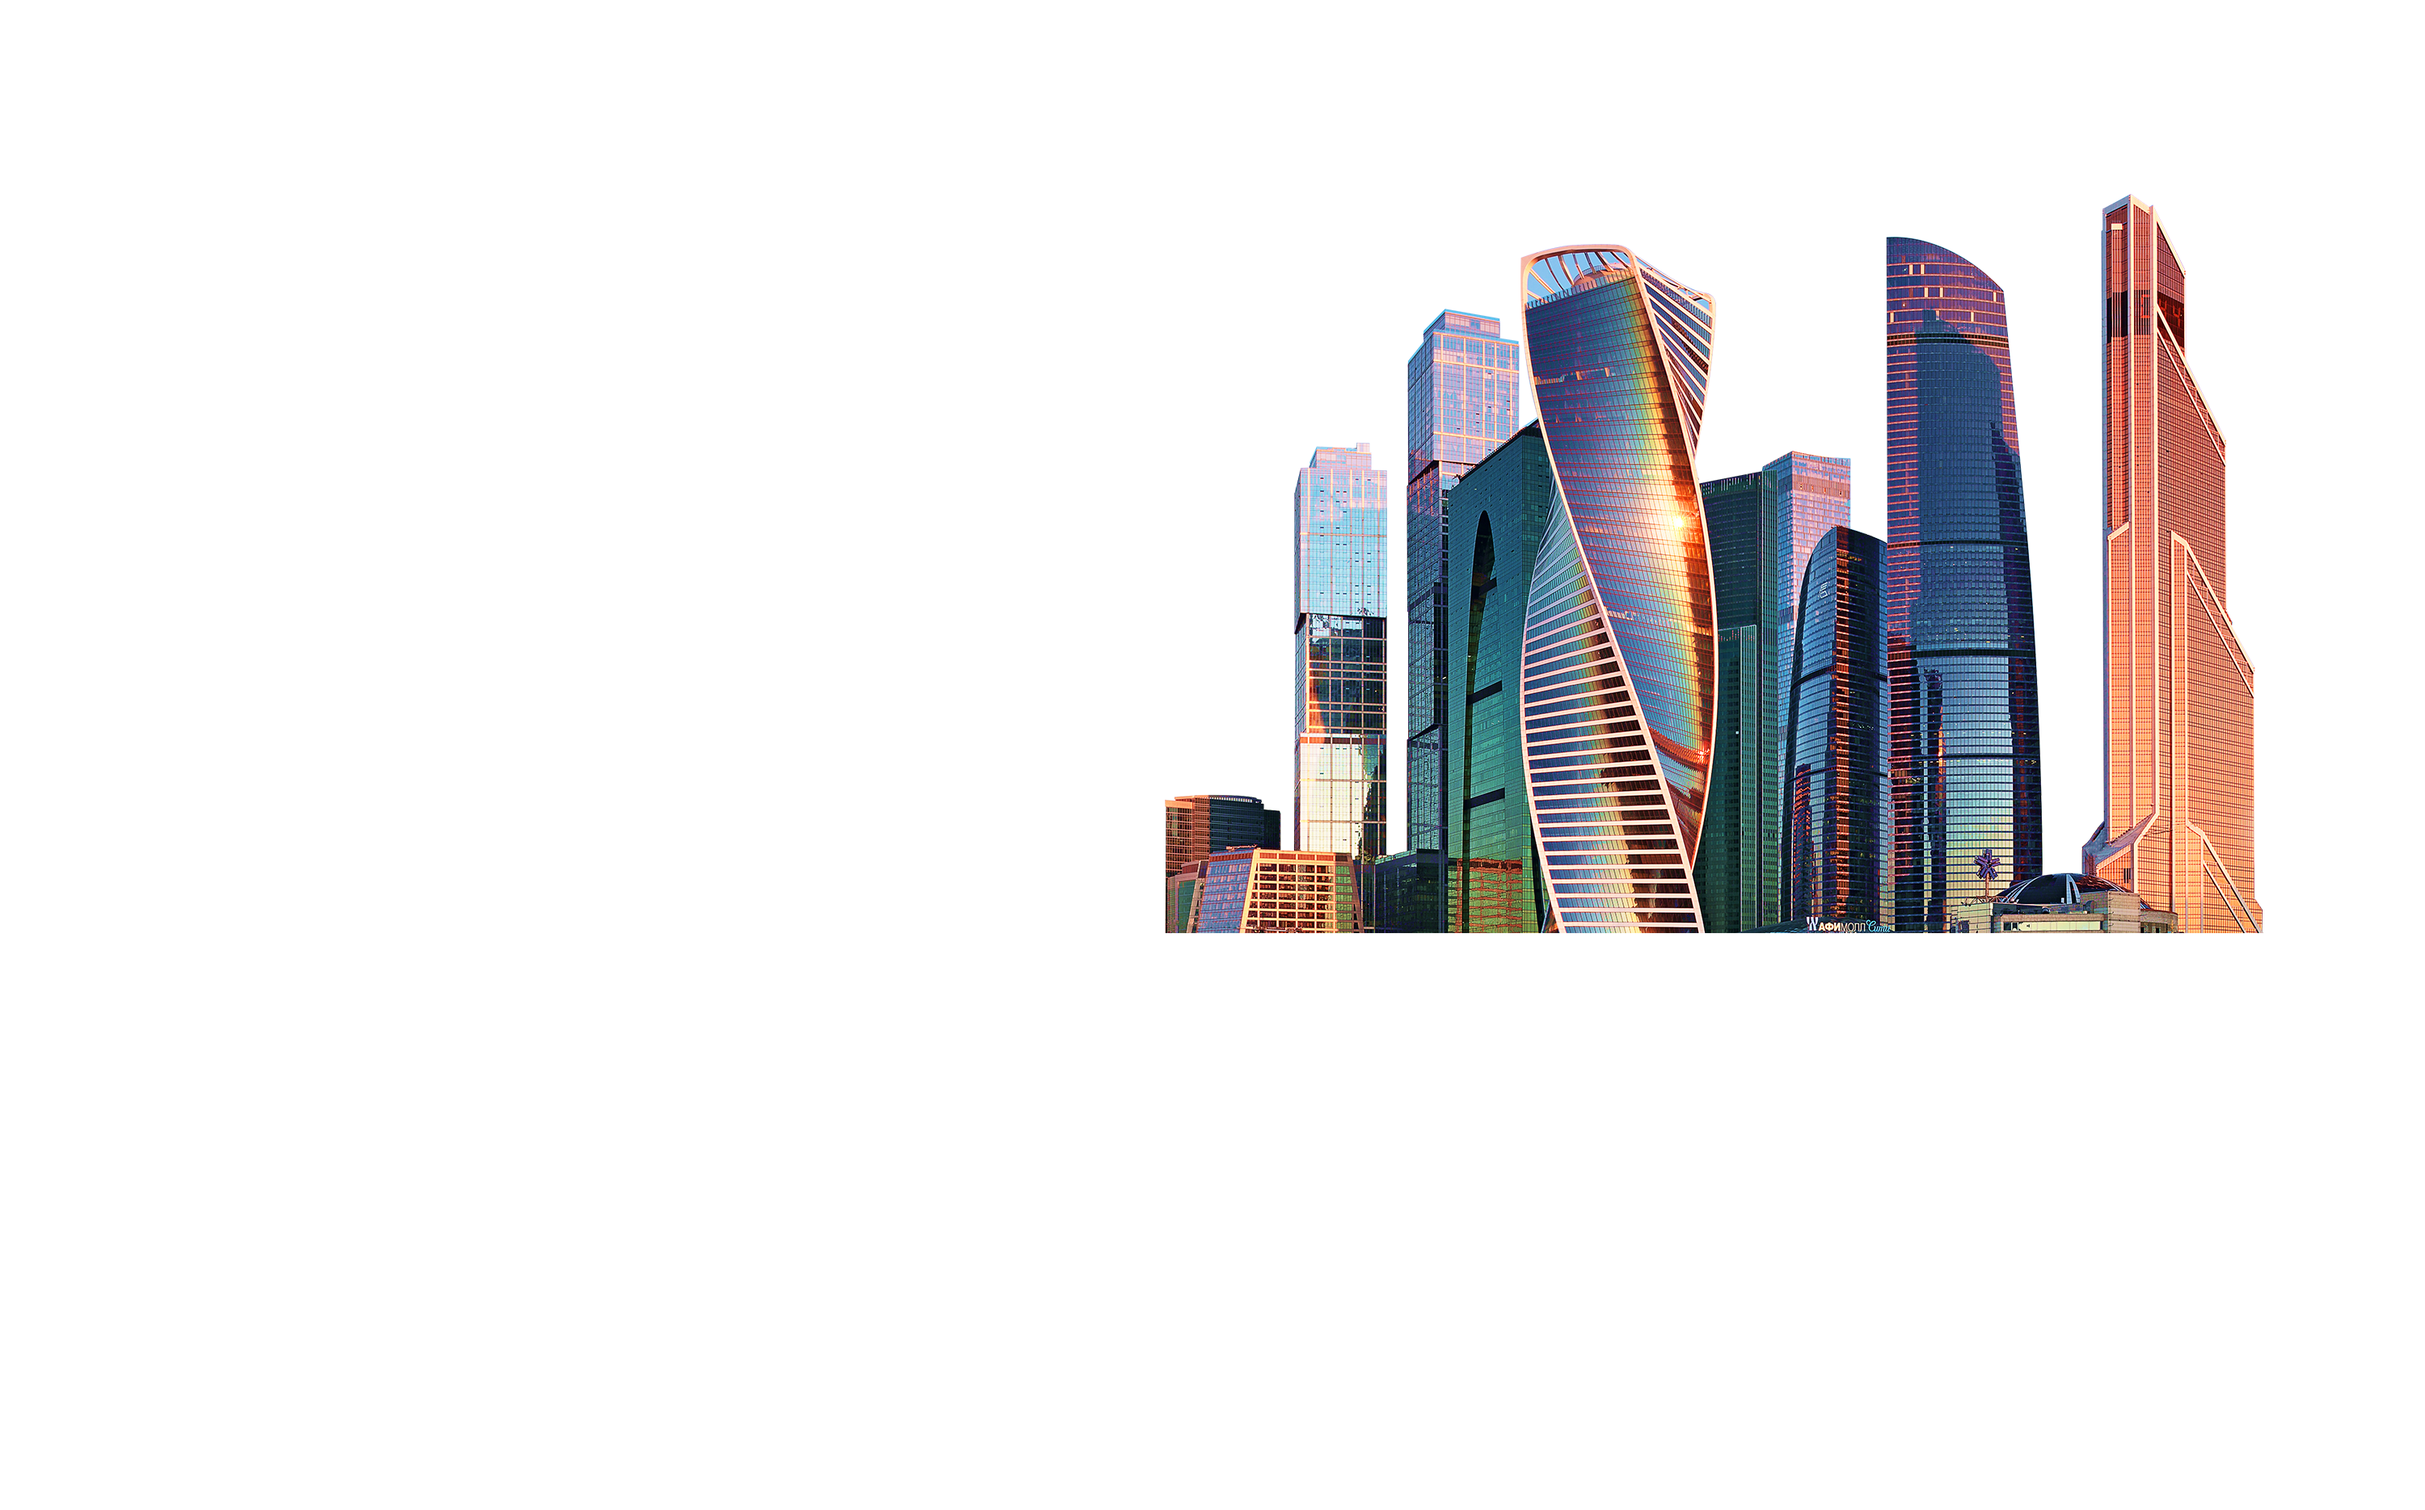
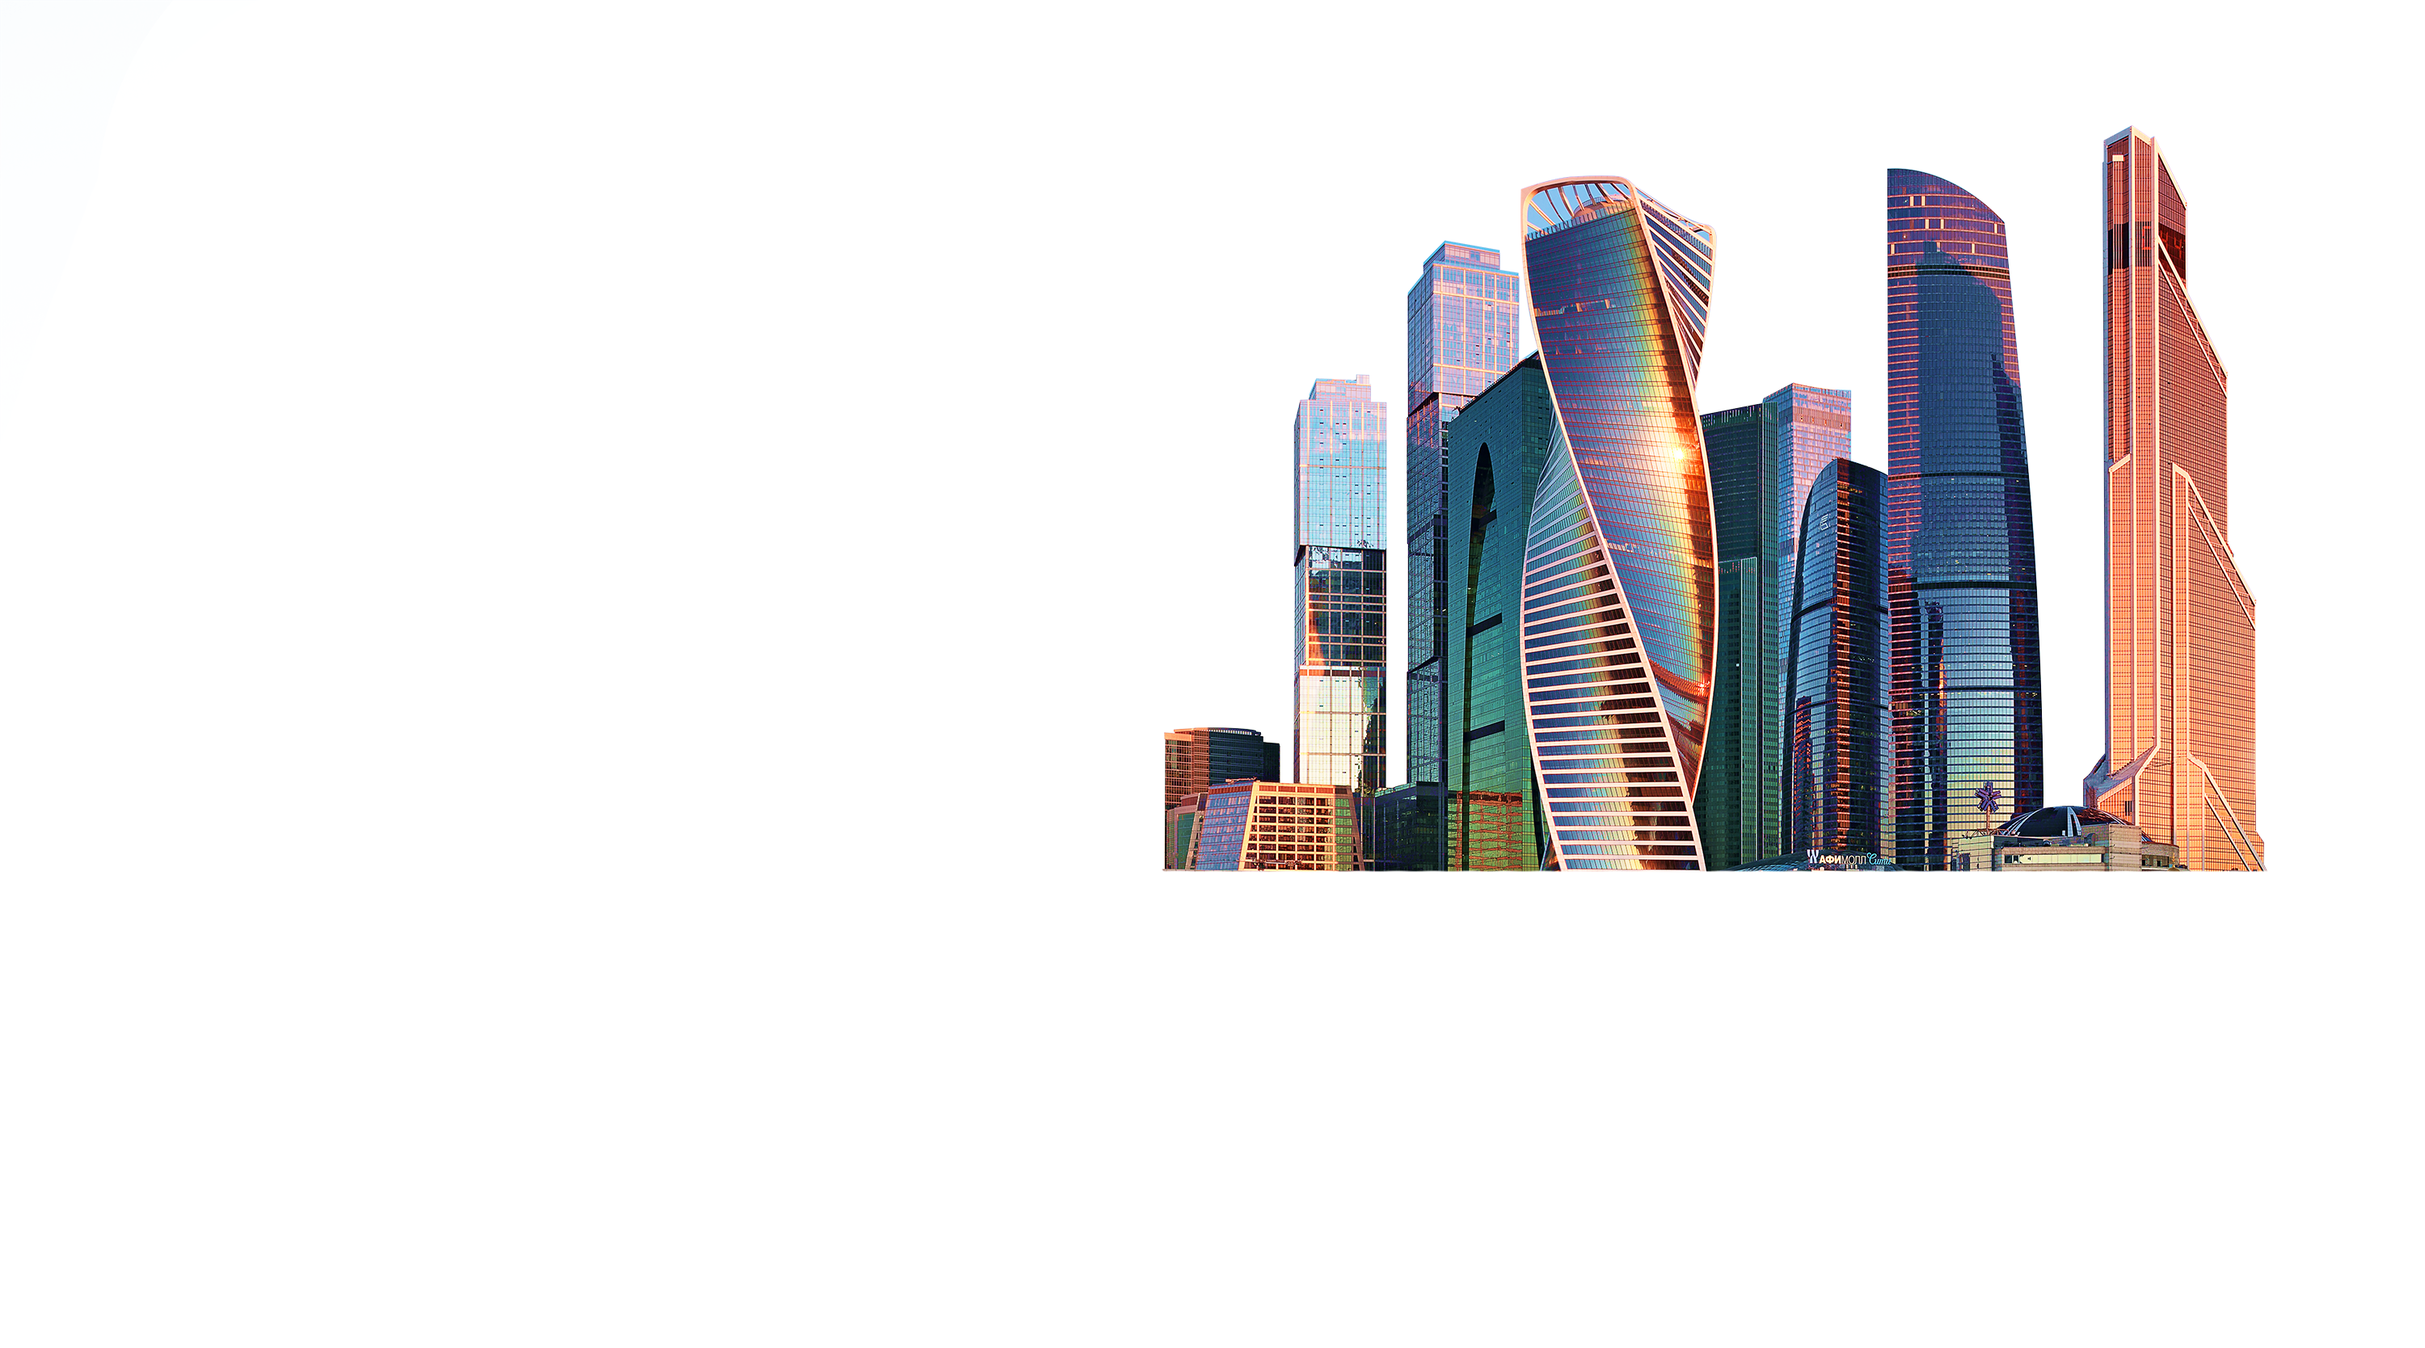
анимация расстановки

Changed region(s): [[0.465, 0.0935, 0.93, 0.6547]]

diff --git a/css/common.css b/css/common.css
@@ -239,10 +239,8 @@ a:active, a:focus, button:active, button:focus {
     transform: translate(0, 0) scale(1); } }
 @keyframes hero3Move {
   0% {
-    opacity: 0;
     transform: translate(0, 30%); }
   100% {
-    opacity: 1;
     transform: translate(0, 0); } }
 @keyframes hero4Move {
   0% {
@@ -324,7 +322,9 @@ body {
     animation: 0 !important;
     opacity: 1;
     transform: none;
-    transition: none; }
+    transition: transform .1s linear; }
+    body.regular .b-section-top__hero.b-section-top__hero_3 {
+      transition: transform .15s linear !important; }
   body.transitions .b-section-top__hero.b-section-top__hero_1 {
     opacity: 0;
     transform: translate(-150%, 0) scale(0.3); }
@@ -352,24 +352,27 @@ body {
     animation: dLogo 1s ease 1 forwards;
     animation-delay: 3s; }
   body.show .b-section-top__bg {
-    background-position: center 50%; }
+    background-position: center 62%; }
   body.show .b-section-top__buildings div {
-    background-position: center 21%; }
+    background-position: center 22%; }
+  body.show .b-section-top__sky {
+    background-position: center 70%; }
   body.show .b-section-top__hero.b-section-top__hero_1 {
-    animation: hero1Move 2s ease 1 forwards;
-    animation-delay: .6s; }
+    animation: hero1Move 2s ease 1 forwards; }
   body.show .b-section-top__hero.b-section-top__hero_2 {
     animation: hero2Move 1s ease 1 forwards;
-    animation-delay: .9s; }
+    animation-delay: .45s; }
   body.show .b-section-top__hero.b-section-top__hero_3 {
-    animation: hero3Move 2.8s ease 1 forwards;
-    animation-delay: 1.2s; }
+    animation: hero3Move 3s ease 1 forwards;
+    animation-delay: 1s;
+    opacity: 1;
+    transition: opacity .75s 1s; }
   body.show .b-section-top__hero.b-section-top__hero_4 {
     animation: hero4Move .8s ease 1 forwards;
     animation-delay: 1.2s; }
   body.show .b-section-top__hero.b-section-top__hero_5 {
     animation: hero5Move .5s ease 1 forwards;
-    animation-delay: .9s; }
+    animation-delay: .7s; }
   body.show .b-section-top__hero-cloud {
     opacity: 1; }
 
@@ -388,7 +391,6 @@ a {
   right: 0;
   bottom: 0;
   z-index: 100;
-  background: #fff;
   transition: opacity .4s, visibility .4s 0s; }
   .b-loader.active .b-loader__line {
     animation: border .6s ease 1 forwards; }
@@ -453,7 +455,7 @@ a {
   background: url("../i/product-logo.svg") no-repeat center;
   background-size: auto 100%;
   opacity: 0;
-  transition: opacity 1s 1.2s; }
+  transition: opacity 1s .5s; }
 
 .b-burger {
   position: absolute;
@@ -464,7 +466,7 @@ a {
   box-sizing: border-box;
   overflow: hidden;
   opacity: 0;
-  transition: opacity 1s 1.4s; }
+  transition: opacity 1s .5s; }
   .b-burger:hover:before {
     transform: translate(-50%, 0) scale(1.1); }
   .b-burger:before {
@@ -491,7 +493,7 @@ a {
   right: 0;
   width: 100%;
   bottom: 0;
-  transition: width 1s .4s;
+  transition: width 1.2s;
   backface-visibility: hidden; }
 
 .b-section-top {
@@ -512,13 +514,13 @@ a {
   overflow: hidden; }
   .b-section-top__buildings div {
     position: absolute !important;
-    top: -5% !important;
+    top: 0 !important;
     left: -5% !important;
     right: -5%;
     bottom: -5%;
-    background: url("../i/city-buildings.png") no-repeat center 11%;
+    background: url("../i/city-buildings.png") no-repeat center 0%;
     background-size: 100% auto;
-    transition: background-position 4s;
+    transition: background-position 4s, transform .3s linear;
     backface-visibility: hidden; }
 
 .b-section-top__wrapper {
@@ -537,13 +539,24 @@ a {
 
 .b-section-top__bg {
   position: absolute !important;
-  top: -5% !important;
+  top: 0 !important;
   left: -5% !important;
   right: -5%;
   bottom: -5%;
-  background: url("../i/city.jpg") no-repeat center 40%;
+  background: url("../i/city.png") no-repeat center 40%;
   background-size: 100% auto;
-  transition: background-position 4s;
+  transition: background-position 4s, transform .3s linear;
+  backface-visibility: hidden; }
+
+.b-section-top__sky {
+  position: absolute !important;
+  top: 0 !important;
+  left: -5% !important;
+  right: -5%;
+  bottom: -5%;
+  background: url("../i/city-sky.png") no-repeat center 0;
+  background-size: 100% auto;
+  transition: background-position 2s 2s;
   backface-visibility: hidden; }
 
 .b-section-top__hero-cloud {
@@ -596,12 +609,13 @@ a {
   .b-section-top__hero.b-section-top__hero_3 {
     left: 40% !important;
     top: auto !important;
-    bottom: 25.5%;
+    bottom: 27%;
     width: 3.72vw;
     height: 6.38vw;
     background: url("../i/top-hero-3.svg") no-repeat center 40%;
     background-size: 100% auto;
-    pointer-events: auto; }
+    pointer-events: auto;
+    opacity: 0; }
     .b-section-top__hero.b-section-top__hero_3 .b-section-top__hero-cloud {
       right: 80%;
       bottom: 70%;

diff --git a/scss/layout.scss b/scss/layout.scss
@@ -45,11 +45,9 @@
 
 @keyframes hero3Move {
   0% {
-    opacity: 0;
     transform: translate(0,30%);
   }
   100% {
-    opacity: 1;
     transform: translate(0,0);
   }
 }
@@ -169,7 +167,11 @@ body{
       animation: 0 !important;
       opacity: 1;
       transform: none;
-      transition: none;
+      transition: transform .1s linear;
+
+      &.b-section-top__hero_3{
+        transition: transform .15s linear !important;
+      }
     }
   }
 
@@ -220,24 +222,28 @@ body{
     }
 
     .b-section-top__bg{
-      background-position: center 50%;
+      background-position: center 62%;
     }
     .b-section-top__buildings div{
-      background-position: center 21%;
+      background-position: center 22%;
+    }
+    .b-section-top__sky{
+      background-position: center 70%;
     }
 
     .b-section-top__hero{
       &.b-section-top__hero_1{
         animation: hero1Move 2s ease 1 forwards;
-        animation-delay: .6s;
       }
       &.b-section-top__hero_2{
         animation: hero2Move 1s ease 1 forwards;
-        animation-delay: .9s;
+        animation-delay: .45s;
       }
       &.b-section-top__hero_3{
-        animation: hero3Move 2.8s ease 1 forwards;
-        animation-delay: 1.2s;
+        animation: hero3Move 3s ease 1 forwards;
+        animation-delay: 1s;
+        opacity: 1;
+        transition: opacity .75s 1s;
       }
       &.b-section-top__hero_4{
         animation: hero4Move .8s ease 1 forwards;
@@ -245,7 +251,7 @@ body{
       }
       &.b-section-top__hero_5{
         animation: hero5Move .5s ease 1 forwards;
-        animation-delay: .9s;
+        animation-delay: .7s;
       }
     }
 
@@ -275,7 +281,7 @@ a {
   right: 0;
   bottom: 0;
   z-index: 100;
-  background: #fff;
+  //background: #fff;
   transition: opacity .4s, visibility .4s 0s;
 
   &.active{
@@ -354,7 +360,7 @@ a {
   background: url("../i/product-logo.svg") no-repeat center;
   background-size: auto 100%;
   opacity: 0;
-  transition: opacity 1s 1.2s;
+  transition: opacity 1s .5s;
 }
 
 .b-burger{
@@ -366,7 +372,7 @@ a {
   box-sizing: border-box;
   overflow: hidden;
   opacity: 0;
-  transition: opacity 1s 1.4s;
+  transition: opacity 1s .5s;
 
   &:hover{
     &:before{
@@ -402,7 +408,7 @@ a {
   right: 0;
   width: 100%;
   bottom: 0;
-  transition: width 1s .4s;
+  transition: width 1.2s;
   backface-visibility: hidden;
 }
 
@@ -428,13 +434,13 @@ a {
 
   div{
     position: absolute !important;
-    top: -5% !important;
+    top: 0 !important;
     left: -5% !important;
     right: -5%;
     bottom: -5%;
-    background: url("../i/city-buildings.png") no-repeat center 11%;
+    background: url("../i/city-buildings.png") no-repeat center 0%;
     background-size: 100% auto;
-    transition: background-position 4s;
+    transition: background-position 4s, transform .3s linear;
     backface-visibility: hidden;
   }
 }
@@ -457,13 +463,25 @@ a {
 
 .b-section-top__bg{
   position: absolute !important;
-  top: -5% !important;
+  top: 0 !important;
   left: -5% !important;
   right: -5%;
   bottom: -5%;
-  background: url("../i/city.jpg") no-repeat center 40%;
+  background: url("../i/city.png") no-repeat center 40%;
   background-size: 100% auto;
-  transition: background-position 4s;
+  transition: background-position 4s, transform .3s linear;
+  backface-visibility: hidden;
+}
+
+.b-section-top__sky{
+  position: absolute !important;
+  top: 0 !important;
+  left: -5% !important;
+  right: -5%;
+  bottom: -5%;
+  background: url("../i/city-sky.png") no-repeat center 0;
+  background-size: 100% auto;
+  transition: background-position 2s 2s;
   backface-visibility: hidden;
 }
 
@@ -529,12 +547,13 @@ a {
   &.b-section-top__hero_3{
     left: 40% !important;
     top: auto !important;
-    bottom: 25.5%;
+    bottom: 27%;
     width: 3.72vw;
     height: 6.38vw;
     background: url("../i/top-hero-3.svg") no-repeat center 40%;
     background-size: 100% auto;
     pointer-events: auto;
+    opacity: 0;
 
     .b-section-top__hero-cloud{
       right: 80%;

diff --git a/index.html b/index.html
@@ -39,10 +39,11 @@
             <div class="b-section-top__white"></div>
             <div class="b-section-top__box">
                 <div class="js-parallax b-section-top__buildings">
-                    <div data-depth="0.15"></div>
+                    <div data-depth="0.15" data-friction-x=".01" data-friction-y=".01" ></div>
                 </div>
                 <div class="js-parallax b-section-top__wrapper">
-                    <div data-depth="0.15" class="b-section-top__bg"></div>
+                    <div class="b-section-top__sky"></div>
+                    <div data-depth="0.15" data-friction-x=".01" data-friction-y=".01" class="b-section-top__bg"></div>
                 </div>
             </div>
             <div class="js-parallax b-section-top__hero-box">
@@ -54,7 +55,7 @@
                         промокод?
                     </div>
                 </div>
-                <div data-depth="0.15" class="b-section-top__hero b-section-top__hero_3">
+                <div data-depth="0.2" data-friction-x=".01" data-friction-y=".01" class="b-section-top__hero b-section-top__hero_3">
                     <a href="#" class="js-call-video-main b-section-top__hero-cloud">
                         Этому городу
                         нужен герой!
